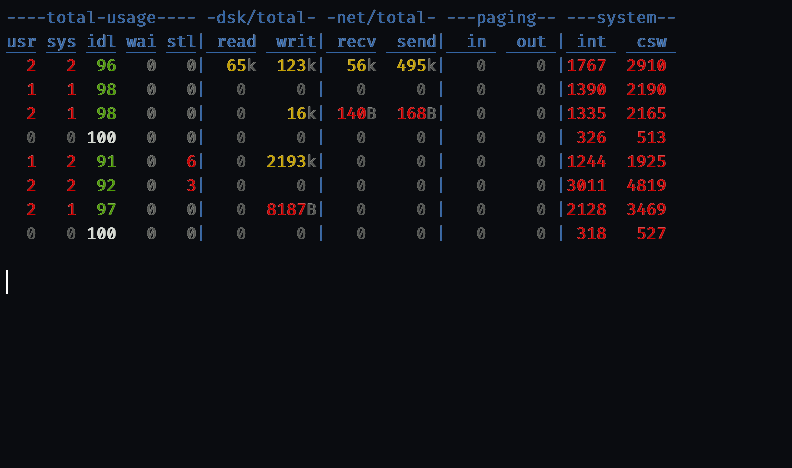
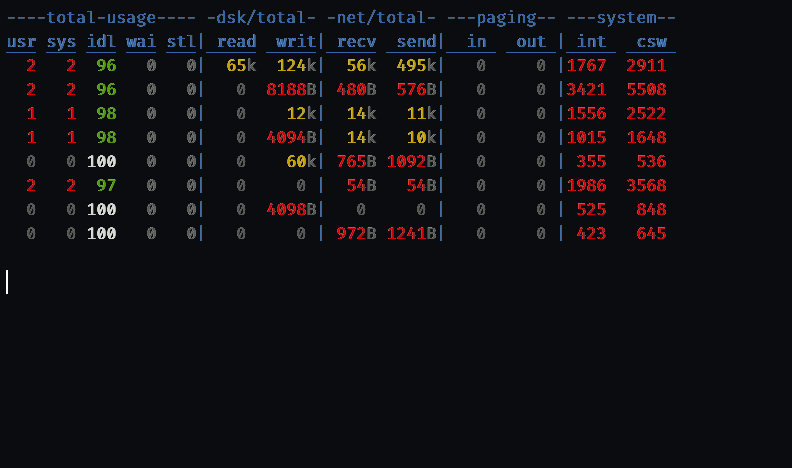
docs: regenerate demo screenshot via rbterm + add -cml view
Both images captured with rbterm's headless screenshot tool
(tools/rbterm-shot.py) using the cross-host recipe — real colorized
rbstat output from the Linux host rendered through rbterm. Adds a
cpu+memory+load view alongside the default one. Records the recipe in
CLAUDE.md.

diff --git a/README.md b/README.md
@@ -75,7 +75,10 @@ dstat.
 | `-a` | `--all`  | — | shorthand for `-cdngy` |
 
 Short flags cluster, so `rbstat -cdn 1 5` selects cpu, disk and net, updating
-every second five times.
+every second five times. Selecting a different set — `rbstat -cml` (cpu, memory,
+load):
+
+![rbstat -cml — cpu, memory and load columns](docs/rbstat-mem.png)
 
 ### Options
 
@@ -131,14 +134,14 @@ values. See [`SPEC.md`](SPEC.md) for the full design.
 | Language | Files | Lines | Blanks | Comments | Code | Complexity |
 |---|---|---|---|---|---|---|
 | Go | 29 | 1,838 | 210 | 180 | 1,448 | 288 |
-| Markdown | 3 | 674 | 151 | 0 | 523 | 0 |
+| Markdown | 3 | 677 | 152 | 0 | 525 | 0 |
 | Shell | 2 | 74 | 9 | 19 | 46 | 10 |
-| **Total** | **34** | **2,586** | **370** | **199** | **2,017** | **298** |
+| **Total** | **34** | **2,589** | **371** | **199** | **2,019** | **298** |
 
-- **Estimated Cost to Develop (organic):** $56,433
+- **Estimated Cost to Develop (organic):** $56,492
 - **Estimated Schedule Effort (organic):** 4.61 months
 - **Estimated People Required (organic):** 1.09
-- **Processed:** 91,056 bytes (0.091 megabytes)
+- **Processed:** 91,191 bytes (0.091 megabytes)
 
 *Generated with [scc](https://github.com/boyter/scc) on 2026-06-18*
 <!-- scc-end -->
